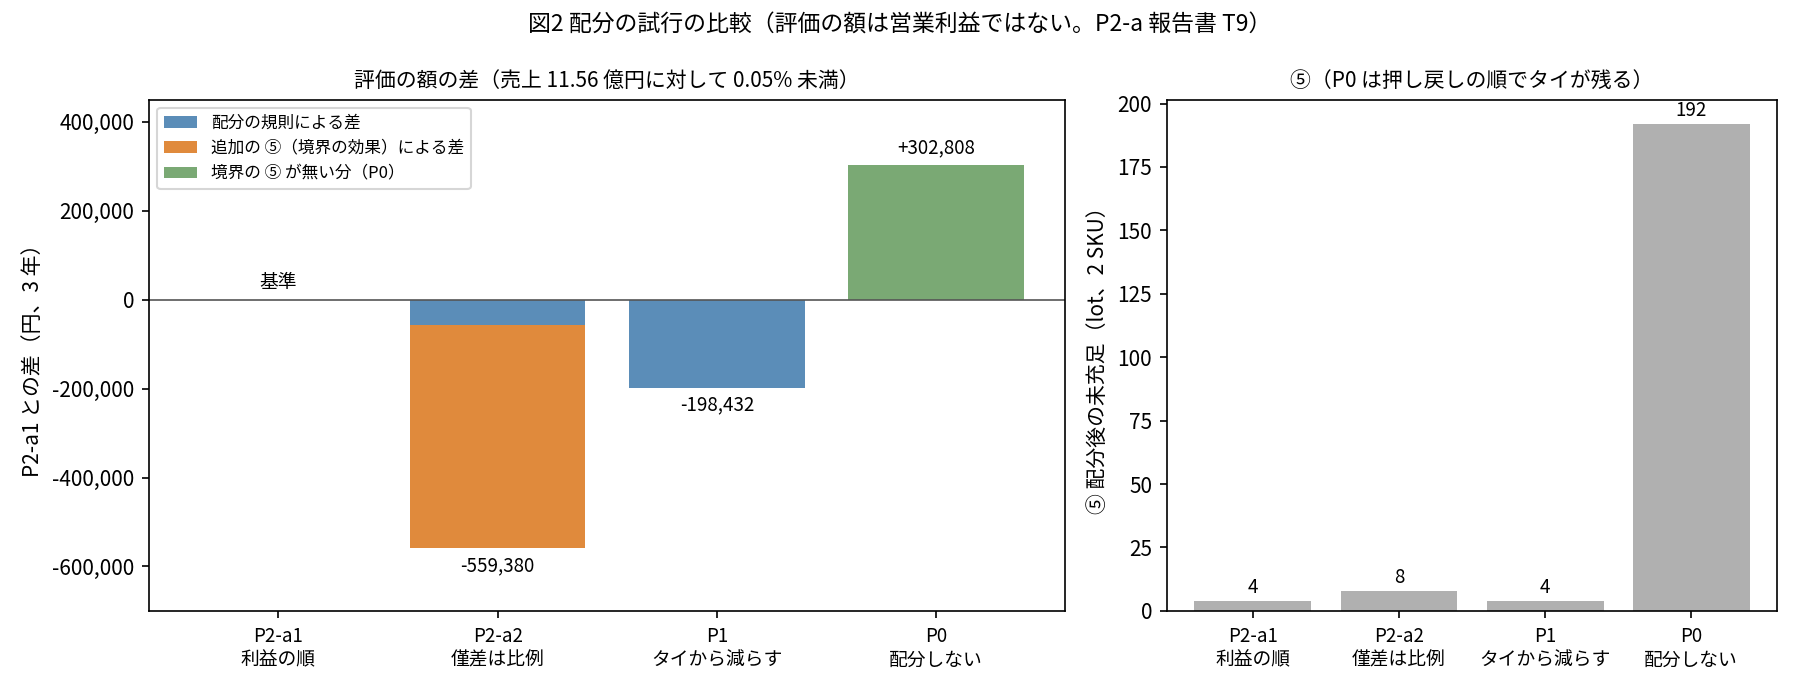
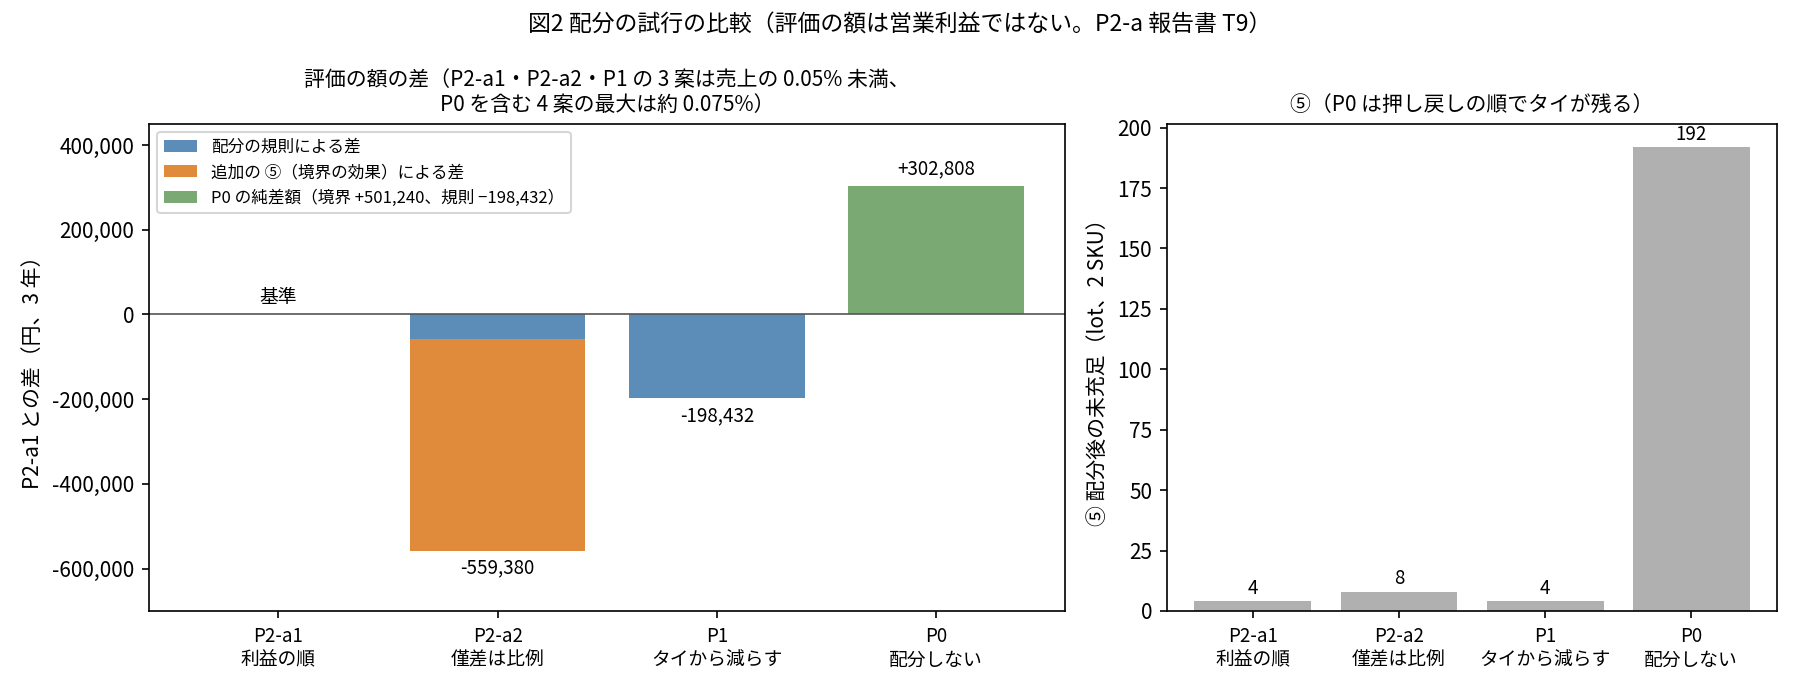
docs(report): BS-SEAF verification report v0.2 after GPT-6.1 Sol's review
- WOM_BSSEAF_Verification_Cosmetics_Report.md (v0.2):
  - Stage 7 split by activity: independence and what each one verified
    (new 2.3). GPT-6.1 Sol also wrote parts of the design, so the review
    is not independent of the whole design.
  - Reading test: Claude Code and Grok without history; GPT-6.1 Sol in a
    new chat but with prior involvement, not treated as the same condition.
  - Chapter 3 conclusion weakened to "supports"; the index effect (3.1)
    and the improved design step after E5 (3.2) shown separately.
  - "8 rounds in 7 days" -> "8 iterations, all 8 stages carried out
    overall"; E3 ages split (warm-up 17 weeks: max 28; C3a26: max 36).
  - P0 +302,808 explained as boundary +501,240 and rule -198,432;
    0.05% applies to P2-a1, P2-a2 and P1 (max about 0.075% with P0).
- Figures regenerated (titles, P0 legend).
- RegisterSample report: completion note for S7 (Owner's GUI check) and
  S9 (Start Here, 4f4d67e).

Claude-Session: https://claude.ai/code/session_01UWzks9Z7LzUksEwGqp7fQq

diff --git a/docs/development/WOM_BSSEAF_Verification_Cosmetics_Report_figures/make_figures.py b/docs/development/WOM_BSSEAF_Verification_Cosmetics_Report_figures/make_figures.py
@@ -71,7 +71,7 @@ def fig_loop(path):
     ax.set_yticks([])
     for sp in ax.spines.values():
         sp.set_visible(False)
-    ax.set_title("図1 ループの周回（青：通った段階、赤枠：誤りの型の段階）", fontsize=11, pad=34)
+    ax.set_title("図1 8 つの検討の反復（青：その反復で通った段階、赤枠：誤りの型の段階）", fontsize=11, pad=34)
     fig.tight_layout()
     fig.savefig(path, dpi=150)
     plt.close(fig)
@@ -88,7 +88,7 @@ def fig_alloc(path):
     x = range(len(cases))
     a1.bar(x, rule, color="#5b8db8", label="配分の規則による差")
     a1.bar(x, boundary, bottom=rule, color="#e08a3c", label="追加の ⑤（境界の効果）による差")
-    a1.bar(x, p0, color="#7aa974", label="境界の ⑤ が無い分（P0）")
+    a1.bar(x, p0, color="#7aa974", label="P0 の純差額（境界 +501,240、規則 −198,432）")
     for i, v in enumerate([0, -559_380, -198_432, 302_808]):
         a1.text(i, v + (15_000 if v >= 0 else -15_000), f"{v:+,}" if v else "基準",
                 ha="center", va="bottom" if v >= 0 else "top", fontsize=9)
@@ -99,7 +99,7 @@ def fig_alloc(path):
     a1.set_ylim(-700_000, 450_000)
     a1.yaxis.set_major_formatter(matplotlib.ticker.FuncFormatter(lambda v, _: f"{v:,.0f}"))
     a1.legend(fontsize=8, loc="upper left")
-    a1.set_title("評価の額の差（売上 11.56 億円に対して 0.05% 未満）", fontsize=10)
+    a1.set_title("評価の額の差（P2-a1・P2-a2・P1 の 3 案は売上の 0.05% 未満、\nP0 を含む 4 案の最大は約 0.075%）", fontsize=10)
     a2.bar(x, fifth, color="#b0b0b0")
     for i, v in enumerate(fifth):
         a2.text(i, v + 3, str(v), ha="center", fontsize=9)

diff --git a/docs/development/WOM_BSSEAF_Cosmetics_RegisterSample_Report.md b/docs/development/WOM_BSSEAF_Cosmetics_RegisterSample_Report.md
@@ -11,8 +11,10 @@
 | 区分 | 状態 |
 |---|---|
 | Code君の作業（S1〜S6、S8、S7 の道具での確認、S9 の案） | 完了 |
-| S7 の最後の GUI の確認（依頼書 §4） | **Owner の確認待ち** |
-| S9 の Start Here への実際の追記 | **索引の更新待ち（Claude君）** |
+| S7 の最後の GUI の確認（依頼書 §4） | **Owner の確認待ち** → 完了（2026-10-30、大杉さん。依頼書 §4 の 4 点） |
+| S9 の Start Here への実際の追記 | **索引の更新待ち（Claude君）** → 完了（2026-10-30、`4f4d67e`。Start Here §4.1 と §7） |
+
+**完了の注記（2026-10-30、Claude君）**：上の 2 行は、この報告書を書いた時点の状態を残し、完了を追記した。大杉さんは GUI で、プラグインの組、PSI の直営店の開店（2027-W14）・店頭在庫・工場の平準化、PPC の「評価済み」と金額、World Map の日本 → シンガポール・タイの流れを確かめた。これで S1〜S9 はすべて完了。
 
 Value Chain は、既知の差を再現したことを確かめただけで、法人別・連結の損益が業務の要求を満たしたという判定は引き続き保留する。
 
